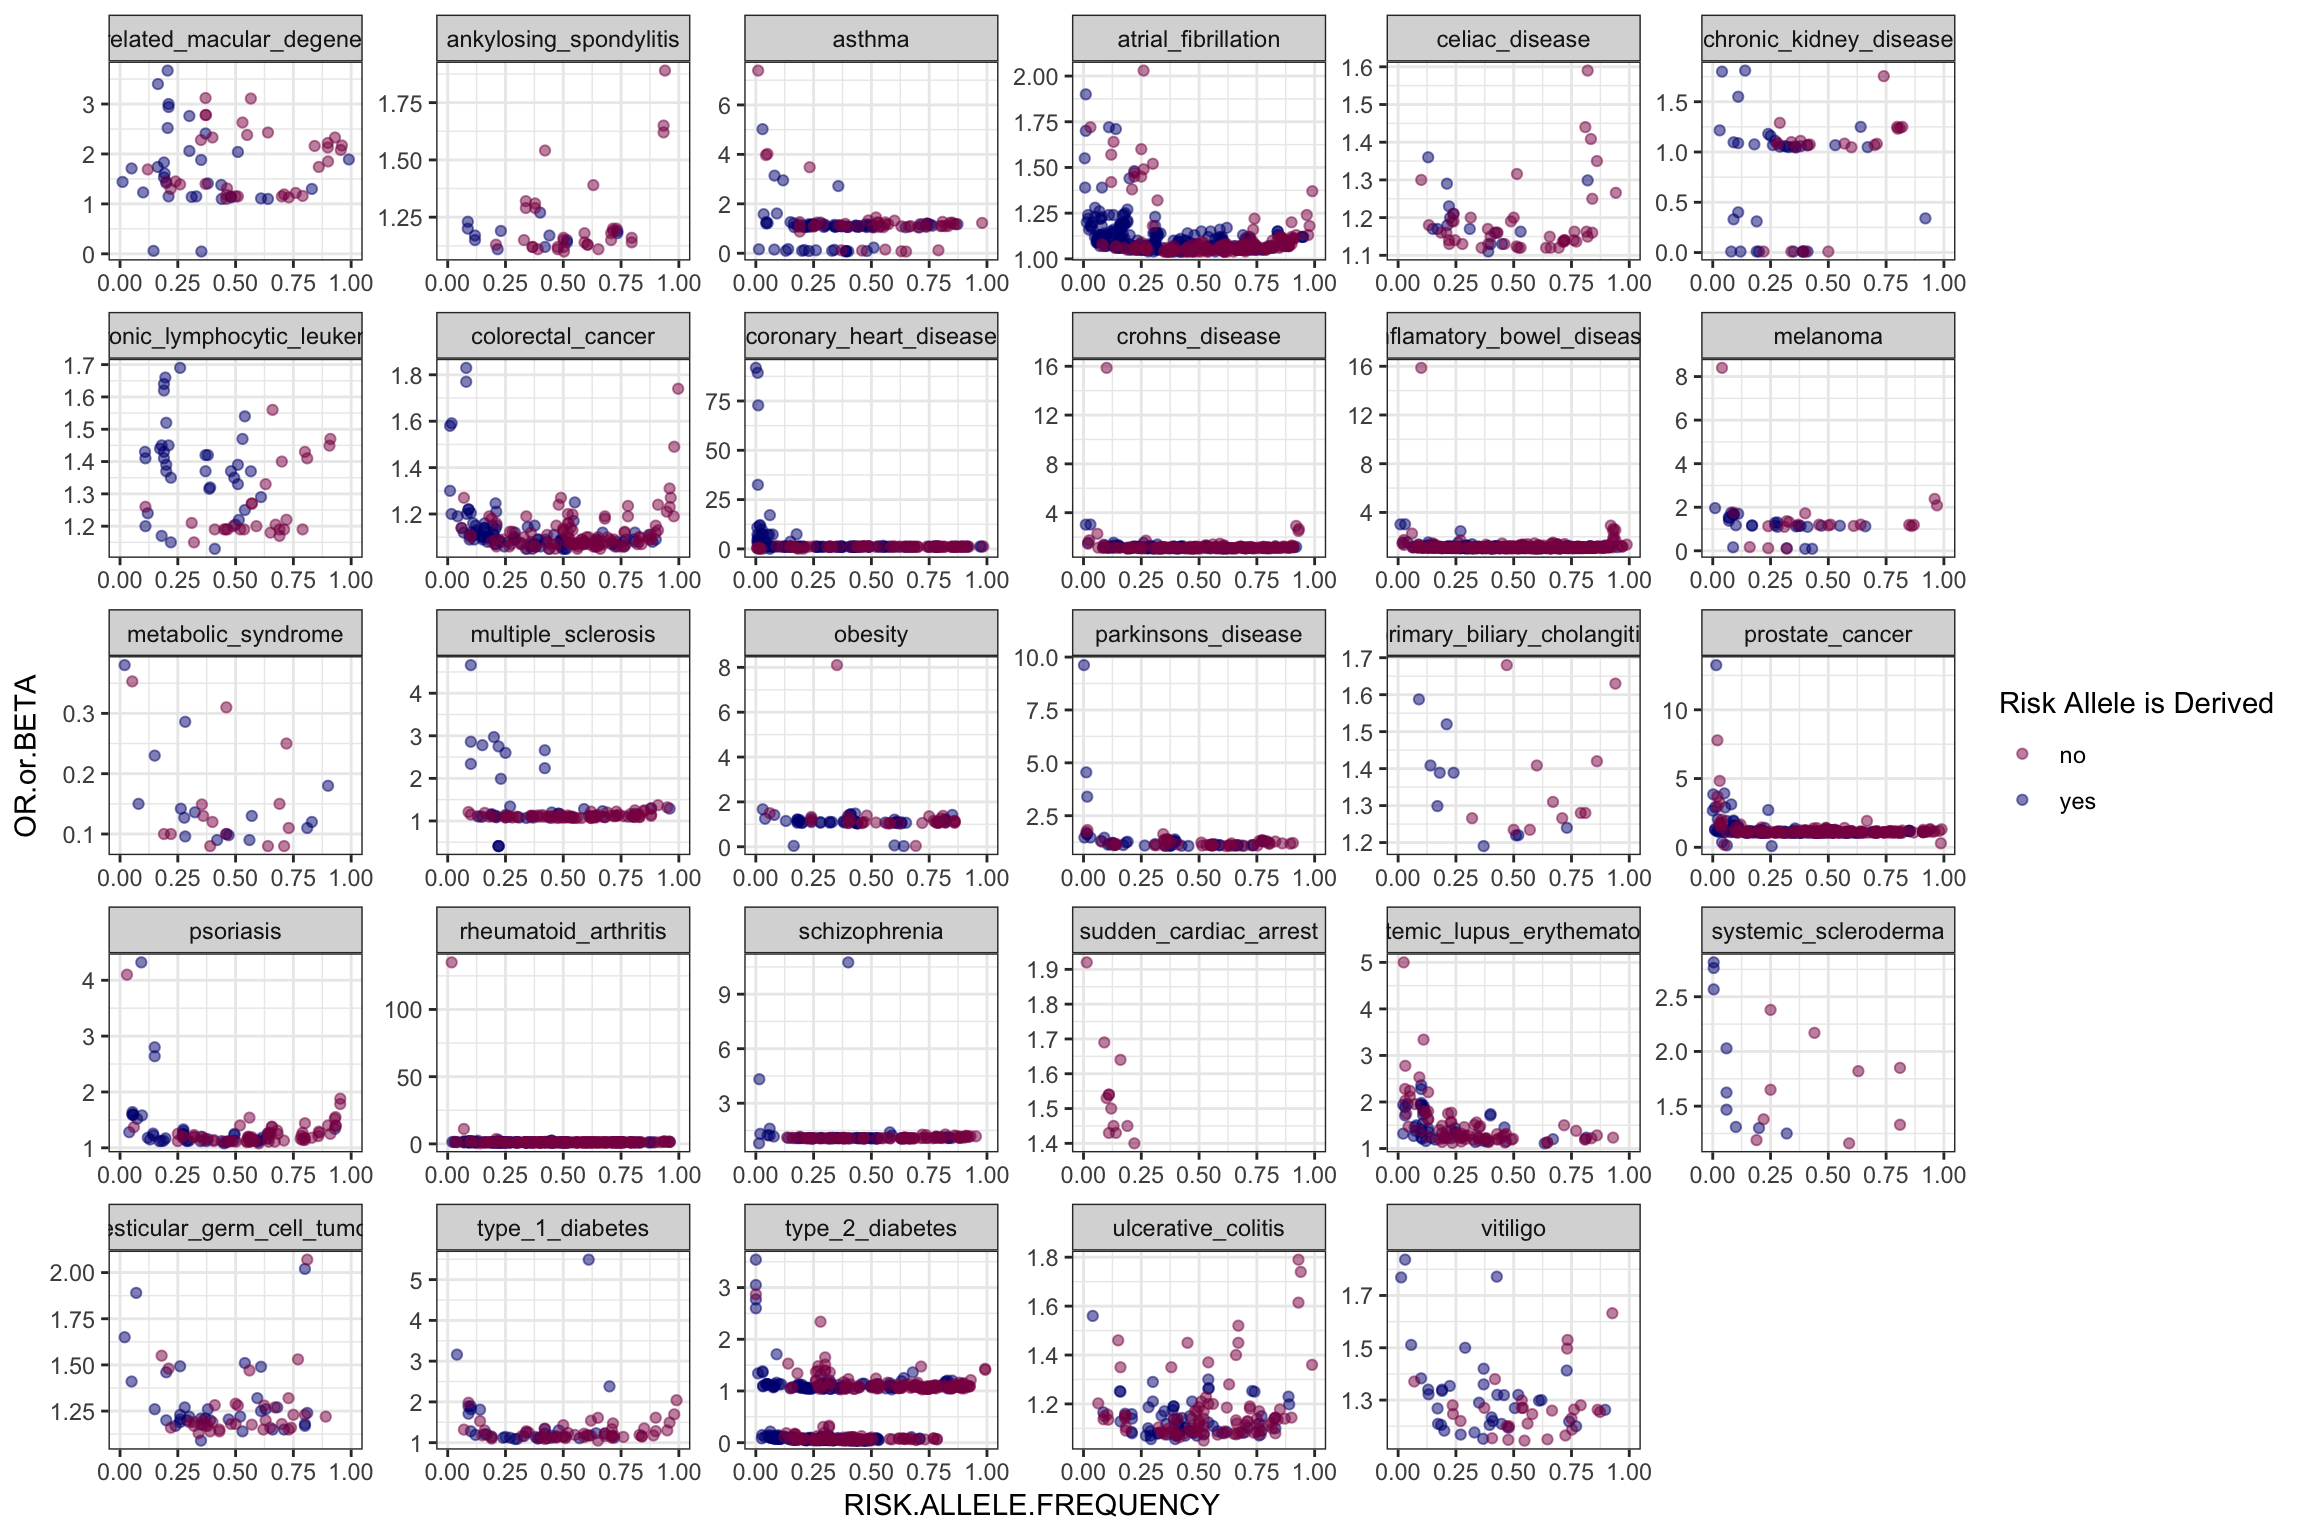
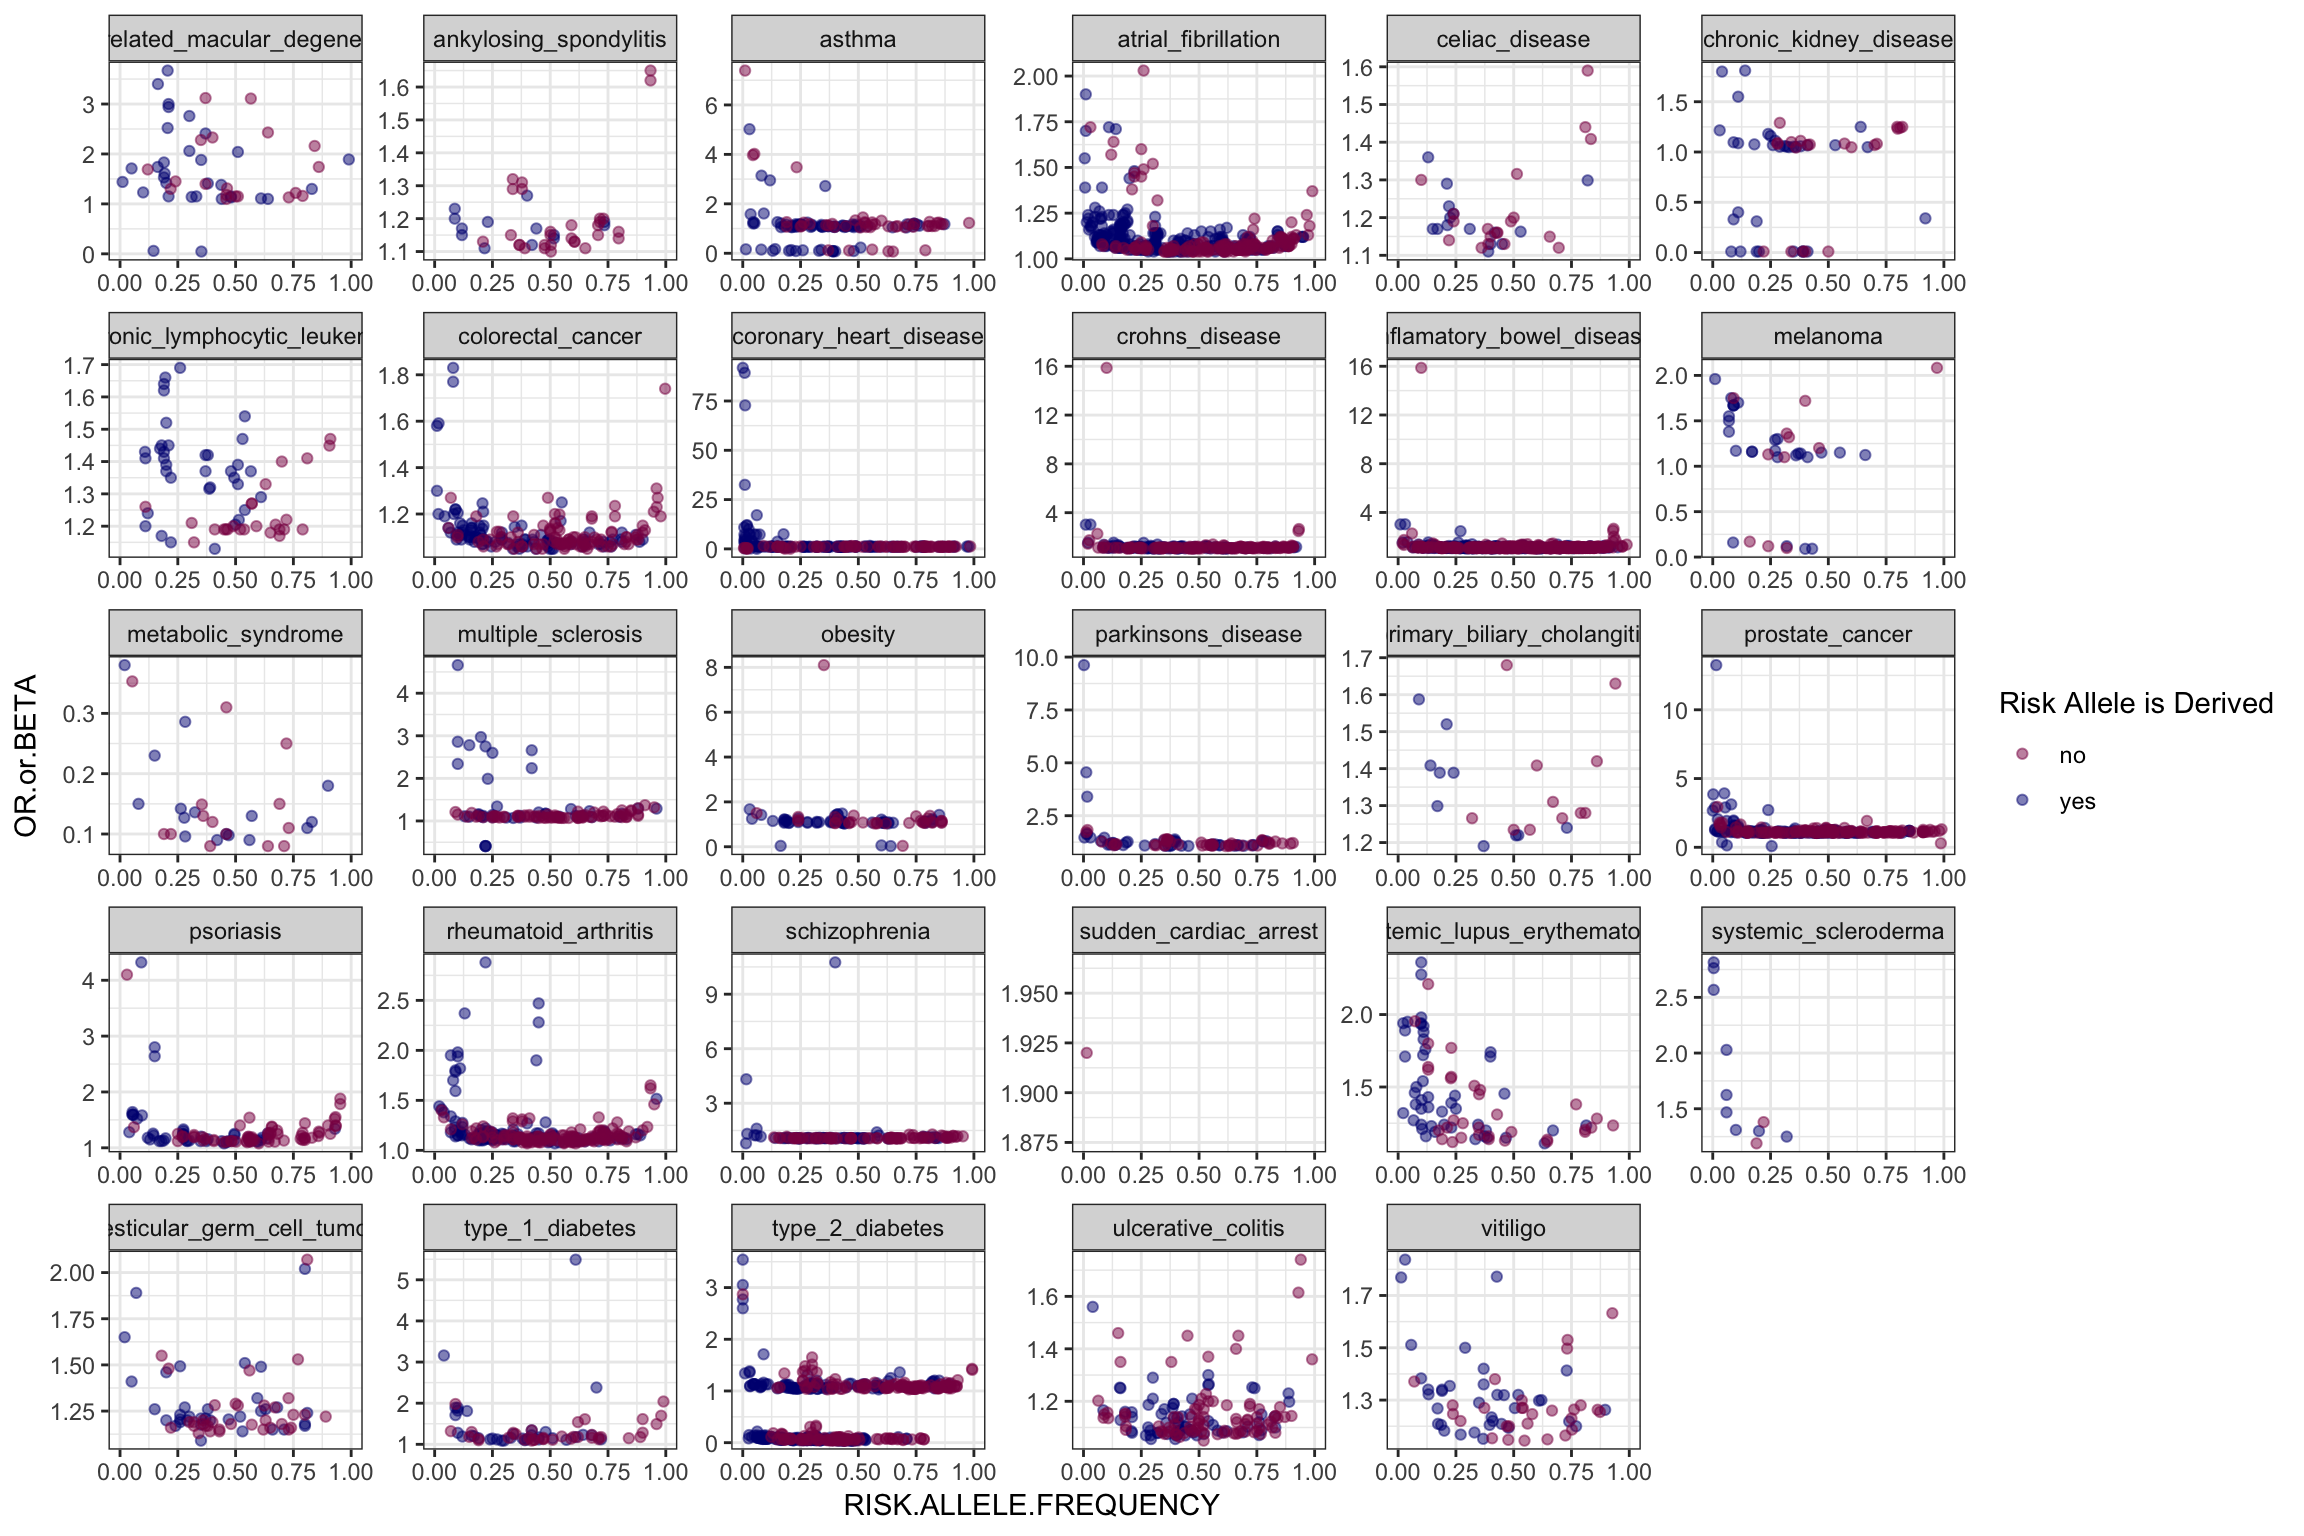
Build site.

diff --git a/docs/explore_data.html b/docs/explore_data.html
@@ -560,10 +560,10 @@ data/IDS.txt
 <div class="panel panel-default">
 <div class="panel-heading">
 <p class="panel-title">
-<a data-toggle="collapse" data-parent="#workflowr-checks" href="#strongRepositoryversionstrongahrefhttpsgithubcomjgblancGWAScatalogtree15ce14d2ed38921b4f5bcb84bd7427e49d42d55btargetblank15ce14da"> <span class="glyphicon glyphicon-ok text-success" aria-hidden="true"></span> <strong>Repository version:</strong> <a href="https://github.com/jgblanc/GWAS_catalog/tree/15ce14d2ed38921b4f5bcb84bd7427e49d42d55b" target="_blank">15ce14d</a> </a>
+<a data-toggle="collapse" data-parent="#workflowr-checks" href="#strongRepositoryversionstrongahrefhttpsgithubcomjgblancGWAScatalogtree36291a786d59d4cfdda2be78220e74efa810f89atargetblank36291a7a"> <span class="glyphicon glyphicon-ok text-success" aria-hidden="true"></span> <strong>Repository version:</strong> <a href="https://github.com/jgblanc/GWAS_catalog/tree/36291a786d59d4cfdda2be78220e74efa810f89a" target="_blank">36291a7</a> </a>
 </p>
 </div>
[2 lines of base64/hex data omitted]
 <div class="panel-body">
 <p>
 Great! You are using Git for version control. Tracking code development and connecting the code version to the results is critical for reproducibility. The version displayed above was the version of the Git repository at the time these results were generated. <br><br> Note that you need to be careful to ensure that all relevant files for the analysis have been committed to Git prior to generating the results (you can use <code>wflow_publish</code> or <code>wflow_git_commit</code>). workflowr only checks the R Markdown file, but you know if there are other scripts or data files that it depends on. Below is the status of the Git repository when the results were generated:
@@ -656,6 +656,40 @@ Message
 </tr>
 </thead>
 <tbody>
+<tr>
+<td>
+Rmd
+</td>
+<td>
+<a href="https://github.com/jgblanc/GWAS_catalog/blob/36291a786d59d4cfdda2be78220e74efa810f89a/analysis/explore_data.Rmd" target="_blank">36291a7</a>
+</td>
+<td>
+jgblanc
+</td>
+<td>
+2019-10-07
+</td>
+<td>
+fixed_question_mark
+</td>
+</tr>
+<tr>
+<td>
+html
+</td>
+<td>
+<a href="https://rawcdn.githack.com/jgblanc/GWAS_catalog/4800407b4b39a6fe38cd1636be1d6a15ac395760/docs/explore_data.html" target="_blank">4800407</a>
+</td>
+<td>
+jgblanc
+</td>
+<td>
+2019-10-07
+</td>
+<td>
+Build site.
+</td>
+</tr>
 <tr>
 <td>
 Rmd
@@ -1026,6 +1060,17 @@ Date
 <tbody>
 <tr>
 <td>
+<a href="https://github.com/jgblanc/GWAS_catalog/blob/4800407b4b39a6fe38cd1636be1d6a15ac395760/docs/figure/explore_data.Rmd/unnamed-chunk-36-1.png" target="_blank">4800407</a>
+</td>
+<td>
+jgblanc
+</td>
+<td>
+2019-10-07
+</td>
+</tr>
+<tr>
+<td>
 <a href="https://github.com/jgblanc/GWAS_catalog/blob/dd407a3b3f9fa706189a96cfc17db8fa0ddbe3e3/docs/figure/explore_data.Rmd/unnamed-chunk-36-1.png" target="_blank">dd407a3</a>
 </td>
 <td>
@@ -1059,7 +1104,8 @@ for (i in 1:length(sra)) {
 }
 snps_with_da$risk_allele &lt;- sra_new</code></pre>
 <p>Determine if the risk allele is the derived or not.</p>
-<pre class="r"><code>derived_risk &lt;- subset(snps_with_da, snps_with_da$derived_allele == snps_with_da$risk_allele)
+<pre class="r"><code>snps_with_da &lt;- subset(snps_with_da, risk_allele != &quot;?&quot;)
+derived_risk &lt;- subset(snps_with_da, snps_with_da$derived_allele == snps_with_da$risk_allele)
 derived_risk$derived_risk &lt;- &quot;yes&quot;
 ancestral_risk &lt;- subset(snps_with_da, snps_with_da$derived_allele != snps_with_da$risk_allele)
 ancestral_risk$derived_risk &lt;- &quot;no&quot;
@@ -1068,9 +1114,83 @@ da_risk &lt;- rbind(derived_risk, ancestral_risk)</code></pre>
 <pre class="r"><code>cols &lt;- c(&quot;deeppink4&quot;, &quot;navy&quot;)
 ggplot(data=da_risk, aes(x = RISK.ALLELE.FREQUENCY, y=OR.or.BETA, col = derived_risk)) + geom_point(alpha = 0.5) + facet_wrap(~disease, scales = &quot;free&quot;) + theme_bw() + xlim(c(0,1)) + scale_color_manual(values = cols, name = &quot;Risk Allele is Derived&quot;)</code></pre>
 <p><img src="figure/explore_data.Rmd/unnamed-chunk-44-1.png" width="1152" style="display: block; margin: auto;" /></p>
+<p>
+<button type="button" class="btn btn-default btn-xs btn-workflowr btn-workflowr-fig" data-toggle="collapse" data-target="#fig-unnamed-chunk-44-1">
+Past versions of unnamed-chunk-44-1.png
+</button>
+</p>
+<div id="fig-unnamed-chunk-44-1" class="collapse">
+<div class="table-responsive">
+<table class="table table-condensed table-hover">
+<thead>
+<tr>
+<th>
+Version
+</th>
+<th>
+Author
+</th>
+<th>
+Date
+</th>
+</tr>
+</thead>
+<tbody>
+<tr>
+<td>
+<a href="https://github.com/jgblanc/GWAS_catalog/blob/4800407b4b39a6fe38cd1636be1d6a15ac395760/docs/figure/explore_data.Rmd/unnamed-chunk-44-1.png" target="_blank">4800407</a>
+</td>
+<td>
+jgblanc
+</td>
+<td>
+2019-10-07
+</td>
+</tr>
+</tbody>
+</table>
+</div>
+</div>
 <p>Box plot of risk allele frequencies separated by derived vs ancestral</p>
 <pre class="r"><code>ggplot(data=da_risk, aes(x=reorder(disease, RISK.ALLELE.FREQUENCY, FUN = median) , y=RISK.ALLELE.FREQUENCY, fill = derived_risk)) + geom_boxplot(col = &quot;black&quot;, alpha = 0.5) + coord_flip() + xlab(&quot;Disease&quot;) + ylab(&quot;Risk allele frequency&quot;) + theme_bw() + scale_fill_manual(values = cols, name = &quot;Risk Allele is Derived&quot;)</code></pre>
 <p><img src="figure/explore_data.Rmd/unnamed-chunk-45-1.png" width="672" style="display: block; margin: auto;" /></p>
+<p>
+<button type="button" class="btn btn-default btn-xs btn-workflowr btn-workflowr-fig" data-toggle="collapse" data-target="#fig-unnamed-chunk-45-1">
+Past versions of unnamed-chunk-45-1.png
+</button>
+</p>
+<div id="fig-unnamed-chunk-45-1" class="collapse">
+<div class="table-responsive">
+<table class="table table-condensed table-hover">
+<thead>
+<tr>
+<th>
+Version
+</th>
+<th>
+Author
+</th>
+<th>
+Date
+</th>
+</tr>
+</thead>
+<tbody>
+<tr>
+<td>
+<a href="https://github.com/jgblanc/GWAS_catalog/blob/4800407b4b39a6fe38cd1636be1d6a15ac395760/docs/figure/explore_data.Rmd/unnamed-chunk-45-1.png" target="_blank">4800407</a>
+</td>
+<td>
+jgblanc
+</td>
+<td>
+2019-10-07
+</td>
+</tr>
+</tbody>
+</table>
+</div>
+</div>
 <br>
 <p>
 <button type="button" class="btn btn-default btn-workflowr btn-workflowr-sessioninfo" data-toggle="collapse" data-target="#workflowr-sessioninfo" style="display: block;">
